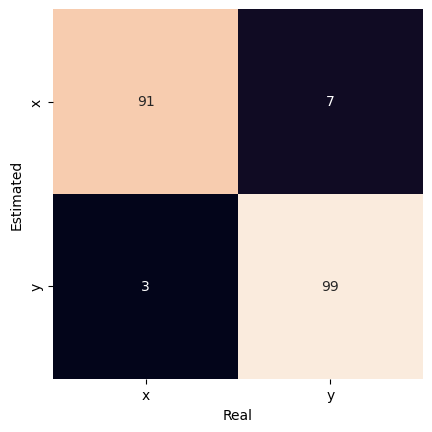
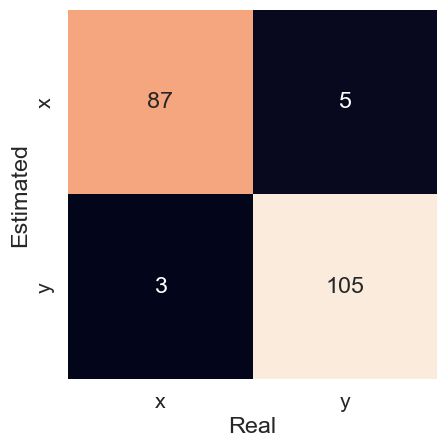
Adicionada página de explicação da classe base e suporte a fórmulas LaTeX.

diff --git a/docusaurus.config.js b/docusaurus.config.js
@@ -3,6 +3,8 @@
 
 const lightCodeTheme = require('prism-react-renderer/themes/github');
 const darkCodeTheme = require('prism-react-renderer/themes/dracula');
+const math = require('remark-math');
+const katex = require('rehype-katex');
 
 /** @type {import('@docusaurus/types').Config} */
 const config = {
@@ -49,12 +51,24 @@ const config = {
       ({
         docs: {
           sidebarPath: require.resolve('./sidebars.js'),
+          remarkPlugins: [math],
+          rehypePlugins: [katex],
         },
         theme: {
           customCss: require.resolve('./src/css/custom.css'),
           },
+          
       }),
     ],
+  ],
+  stylesheets: [
+    {
+      href: 'https://cdn.jsdelivr.net/npm/katex@0.13.24/dist/katex.min.css',
+      type: 'text/css',
+      integrity:
+        'sha384-odtC+0UGzzFL/6PNoE8rX/SPcQDXBJ+uRepguP4QkPCm2LBxH3FA3y+fKSiJ+AmM',
+      crossorigin: 'anonymous',
+    },
   ],
   
   themeConfig:
@@ -67,6 +81,7 @@ const config = {
         collapsible: true,
       },
       docs: {
+
         sidebar: {
           hideable: true,
         },

diff --git a/docs/Getting Started/basic use/BNSA.md b/docs/Getting Started/basic use/BNSA.md
@@ -23,12 +23,12 @@ from aisp.NSA import BNSA
 ## Randomly generating binary samples and splitting the data.
 ### Function to generate binary samples
 
-In this function, samples of binary data with a degree of similarity above a defined threshold s are generated. However, the first 10% of the data is generated randomly, without taking into account the value of s. Furthermore, when there are already samples, unique samples are generated for the new class, ensuring that the random samples generated are not duplicated in different classes.
+In this function, samples of binary data with a degree of similarity below a defined threshold s are generated. However, the first 10% of the data is generated randomly, without taking into account the value of s. Furthermore, when there are already samples, unique samples are generated for the new class, ensuring that the random samples generated are not duplicated in different classes.
 
 ```python
 import numpy as np
 from scipy.spatial.distance import cdist
-# This function generates samples with similarities above a similarity threshold.
+
 def generate_samples(n_samples: int, n_features: int, s: float, x: None):
    class_samples = []
    while len(class_samples) < n_samples:
@@ -37,9 +37,9 @@ def generate_samples(n_samples: int, n_features: int, s: float, x: None):
      if(len(class_samples) > max(int(n_samples * 0.1), 1)):
        similarity = cdist(class_samples, np.expand_dims(sample_rand, axis=0), metric='hamming')[0, :]
        if x is not None:
-         if similarity[0] > s and not np.any(np.all(sample_rand == x, axis=1)):
+         if similarity[0] <= s and not np.any(np.all(sample_rand == x, axis=1)):
            class_samples.append(sample_rand)
-       elif similarity[0] > s:
+       elif similarity[0] <= s:
          class_samples.append(sample_rand)
      else:
        class_samples.append(sample_rand)
@@ -48,16 +48,16 @@ def generate_samples(n_samples: int, n_features: int, s: float, x: None):
 
 ### Data generation and separation
 
-In this step, 1000 pieces of data are generated, 500 representing class 'x' and 500 representing class 'y'. Each die is made up of 20 dimensions. It is important to highlight that these data are created in such a way that they present a degree of similarity of 70%, that is, they share common characteristics. After generation, the data is separated into training and test sets.
+In this step, 1000 pieces of data are generated, 500 representing class 'x' and 500 representing class 'y'. Each die is made up of 20 dimensions. It is important to highlight that these data are created in such a way that they present a degree of similarity of 80%, that is, they share common characteristics. After generation, the data is separated into training and test sets.
 
 ```python
 from sklearn.model_selection import train_test_split
 # Setting the seed to 121 to ensure the reproducibility of the generated data.
 np.random.seed(121)
 # Generating samples for class "x".
-x = generate_samples(500, 20, 0.7, None)
+x = generate_samples(500, 20, 0.2, None)
 # Generating unique samples for class "y", different from samples present in class "x".
-y = generate_samples(500, 20, 0.7, x)
+y = generate_samples(500, 20, 0.2, x)
 # Adding columns containing the outputs (labels) of classes "x" and "y".
 x = np.hstack((x, np.full((x.shape[0], 1), 'x')))
 y = np.hstack((y, np.full((y.shape[0], 1), 'y')))
@@ -78,7 +78,7 @@ Starting the model and applying it to randomly generated samples, the current co
 ```python
 from sklearn.metrics import confusion_matrix, classification_report, accuracy_score
 # Starting the model.
-nsa = BNSA(N=250, aff_thresh=0.3, seed=12321, max_discards=10000)
+nsa = BNSA(N=250, aff_thresh=0.34, seed=1234321, max_discards=10000)
 # Conducting the training:
 nsa.fit(X=train_x, y=train_y)
 # Visualization of classes with test samples.
@@ -91,20 +91,20 @@ print(classification_report(test_y, prev_y))
 Output:
 ```
 ✔ Non-self detectors for classes (x, y) successfully generated:  ┇██████████┇ 500/500 detectors
-The accuracy is 0.95
+The accuracy is 0.96
               precision    recall  f1-score   support
 
-           x       0.93      0.97      0.95        94
-           y       0.97      0.93      0.95       106
+           x       0.95      0.97      0.96        90
+           y       0.97      0.95      0.96       110
 
-    accuracy                           0.95       200
-   macro avg       0.95      0.95      0.95       200
-weighted avg       0.95      0.95      0.95       200
+    accuracy                           0.96       200
+   macro avg       0.96      0.96      0.96       200
+weighted avg       0.96      0.96      0.96       200
 ```
 
 ##  Confusion matrix
 
-Here is the confusion matrix, where the main diagonal represents correctly predicted samples and the secondary diagonal shows the false positives. Out of 200 test data points, there were 7 false positives for class x and 3 false positives for class y.
+Here is the confusion matrix, where the main diagonal represents correctly predicted samples and the secondary diagonal shows the false positives. Out of 200 test data points, there were 5 false positives for class x and 3 false positives for class y.
 
 ```python
 # Generating the confusion matrix and plotting it graphically.

diff --git a/i18n/pt-br/docusaurus-plugin-content-docs/current/Getting Started/basic use/BNSA.md b/i18n/pt-br/docusaurus-plugin-content-docs/current/Getting Started/basic use/BNSA.md
@@ -25,7 +25,7 @@ from aisp.NSA import BNSA
 
 ### Função para gerar amostras binárias
 
-Nesta função, são geradas amostras de dados binários com um grau de similaridade acima de um limiar definido s. No entanto, 10% dos primeiros dados são gerados aleatoriamente, sem levar em consideração o valor de s. Além disso, quando já existem amostras, são geradas amostras únicas para a nova classe, garantindo que as amostras aleatórias geradas não estejam duplicadas em classes diferentes.
+Nesta função, são geradas amostras de dados binários com um grau de similaridade abaixo do limiar definido s. No entanto, 10% dos primeiros dados são gerados aleatoriamente, sem levar em consideração o valor de s. Além disso, quando já existem amostras, são geradas amostras únicas para a nova classe, garantindo que as amostras aleatórias geradas não estejam duplicadas em classes diferentes.
 
 ```python
 import numpy as np
@@ -39,9 +39,9 @@ def generate_samples(n_samples: int, n_features: int, s: float, x: None):
     if(len(classe_samples) > max(int(n_samples * 0.1), 1)):
       similarity = cdist(classe_samples, np.expand_dims(sample_rand, axis=0), metric='hamming')[0, :]
       if x is not None:
-        if similarity[0] > s and not np.any(np.all(sample_rand == x, axis=1)):
+        if similarity[0] <= s and not np.any(np.all(sample_rand == x, axis=1)):
           classe_samples.append(sample_rand)
-      elif similarity[0] > s:
+      elif similarity[0] <= s:
         classe_samples.append(sample_rand)
     else:
       classe_samples.append(sample_rand)
@@ -50,16 +50,15 @@ def generate_samples(n_samples: int, n_features: int, s: float, x: None):
 
 ### Geração e separação de dados
 
-Nessa etapa, são gerados 1000 dados, sendo 500 para representar a classe 'x' e 500 para representar a classe 'y'. Cada dado é formado por 20 dimensões. É importante destacar que esses dados são criados de forma que apresentem um grau de similaridade de 70%, ou seja, compartilham características comuns. Após a geração, os dados são separados em conjuntos de treinamento e teste.
+Nessa etapa, são gerados 1000 dados, sendo 500 para representar a classe 'x' e 500 para representar a classe 'y'. Cada dado é formado por 20 dimensões. É importante destacar que esses dados são criados de forma que apresentem um grau de similaridade de 80%, ou seja, compartilham características comuns. Após a geração, os dados são separados em conjuntos de treinamento e teste.
 
 ```python
-
 # Configurando a seed para 121 para garantir a reprodutibilidade dos dados gerados.
 np.random.seed(121)
 # Gerando amostras para a classe "x".
-x = generate_samples(500, 20, 0.7, None)
+x = generate_samples(500, 20, 0.2, None)
 # Gerando amostras exclusivas para a classe "y", diferentes das amostras presentes na classe "x".
-y = generate_samples(500, 20, 0.7, x)
+y = generate_samples(500, 20, 0.2, x)
 # Adicionando colunas contendo as saídas (rótulos) das classes "x" e "y".
 x = np.hstack((x, np.full((x.shape[0], 1), 'x')))
 y = np.hstack((y, np.full((y.shape[0], 1), 'y')))
@@ -80,31 +79,31 @@ Iniciando o modelo e aplicando-o às amostras geradas aleatoriamente, a configur
 
 ```python
 # Iniciando p modelo.
-nsa = BNSA(N=250, aff_thresh=0.3, seed=12321, max_discards=10000)
+nsa = BNSA(N=250, aff_thresh=0.34, seed=1234321, max_discards=10000)
 # Efetuando o treinamento: 
 nsa.fit(X=train_x, y=train_y)
 # Efetuando a previsão:: 
 prev = nsa.predict(X=test_x)
 # Mostrando a acurácia das previsões para os dados reais.
-print(f"A acuracia é {accuracy_score(prev, test_y)}")
+print(f"A acurácia é {accuracy_score(prev, test_y)}")
 print(classification_report(test_y, prev))
 ```
 
 Output:
 ```
 ✔ Non-self detectors for classes (x, y) successfully generated:  ┇██████████┇ 500/500 detectors
-A acuracia é 0.95
+A acurácia é 0.96
               precision    recall  f1-score   support
 
-           x       0.93      0.97      0.95        94
-           y       0.97      0.93      0.95       106
+           x       0.95      0.97      0.96        90
+           y       0.97      0.95      0.96       110
 
-    accuracy                           0.95       200
-   macro avg       0.95      0.95      0.95       200
-weighted avg       0.95      0.95      0.95       200
+    accuracy                           0.96       200
+   macro avg       0.96      0.96      0.96       200
+weighted avg       0.96      0.96      0.96       200
 ```
 
 ## Matriz de confusão
-Aqui está a matriz de confusão, onde a diagonal principal representa as amostras previstas corretamente e a diagonal secundária mostra os falsos positivos. Dos 200 dados de teste, houve 7 falsos positivos para a classe x e 3 falsos positivos para a classe y.
+Aqui está a matriz de confusão, onde a diagonal principal representa as amostras previstas corretamente e a diagonal secundária mostra os falsos positivos. Dos 200 dados de teste, houve 5 falsos positivos para a classe x e 6 falsos positivos para a classe y.
 
 ![](../../assets/matrizBNSA.png)

diff --git a/i18n/pt-br/docusaurus-plugin-content-docs/current/advanced-guides/base.md b/i18n/pt-br/docusaurus-plugin-content-docs/current/advanced-guides/base.md
@@ -1,0 +1,64 @@
+---
+sidebar_position: 1
+title: aisp._base Class
+sidebar_label: Classe - Base.
+lastUpdatedAt: 2023/06/04
+author: João Paulo
+---
+
+# Classe aisp._base
+
+A classe ``_Base`` contém funções utilitárias com o modificador ``protected`` que podem ser herdadas por várias classes para facilitar o uso. Ela inclui funções para calcular distância, separar dados para melhorar a eficiência de treinamento e previsão, medir precisão e outras funções.
+
+## Funções Protegidas:
+
+### def _distance(...):
+
+```python
+def _distance(self, u: npt.NDArray, v: npt.NDArray)
+```
+
+Função para calcular a distância entre dois pontos usando a "métrica" escolhida.
+
+**Parâmetros**:
+* ***u*** (``npt.NDArray``): Coordenadas do primeiro ponto.
+* ***v*** (``npt.NDArray``): Coordenadas do segundo ponto.
+
+**Retorna**:
+* Distância (``double``) entre os dois pontos.
+
+### def _slice_index_list_by_class(...)
+
+```python
+def _slice_index_list_by_class(self, y: npt.NDArray) -> dict
+```
+
+A função ``_slice_index_list_by_class(...)`` separa os índices das linhas de acordo com a classe de saída, para iterar sobre o array de amostra apenas nas posições em que a saída é a classe em treinamento.
+
+**Parâmetros**:
+* ***y*** (npt.NDArray): Recebe um array ``y``[``N amostra``] com as classes de saída do array de amostra ``X``.
+
+**Retorna**:
+* dict: Um dicionário com a lista de posições do array (`y`), com as classes como chave.
+
+### def _score(...)
+
+```python
+def _score(self, X: npt.NDArray, y: list) -> float
+```
+
+A função de pontuação (score) calcula a precisão da previsão.
+
+Esta função realiza a previsão de X e verifica quantos elementos são iguais entre o vetor y e y_predicted. 
+Esta função foi adicionada para compatibilidade com algumas funções do scikit-learn.
+
+**Parâmetros**:
++ ***X***: np.ndarray
+    Conjunto de características com formato (n_amostras, n_características).
++ ***y***: np.ndarray
+    Valores verdadeiros com formato (n_amostras,).
+
+**Retorna**:
+
++ precisão: float
+    A precisão do modelo.

diff --git a/docs/advanced-guides/base.md b/docs/advanced-guides/base.md
@@ -1,0 +1,64 @@
+---
+sidebar_position: 1
+title: aisp._base Class
+sidebar_label: Class - Base.
+lastUpdatedAt: 2023/06/04
+author: João Paulo
+---
+
+# aisp._base Class
+
+The ``_Base`` class contains utility functions with the ``protected`` modifier that can be inherited by various classes for ease of use. It includes functions for distance calculation, data separation to improve training and prediction efficiency, accuracy measurement and other functions.
+
+## Protected Functions:
+
+### def _distance(...):
+
+```python
+def _distance(self, u: npt.NDArray, v: npt.NDArray)
+```
+
+Function to calculate the distance between two points by the chosen ``metric``.
+
+**Parameters**:
+* ***u*** (``npt.NDArray``): Coordinates of the first point.
+* ***v*** (``npt.NDArray``): Coordinates of the second point.
+
+**returns**:
+* Distance (``double``) between the two points.
+
+### def _slice_index_list_by_class(...)
+
+```python
+def _slice_index_list_by_class(self, y: npt.NDArray) -> dict
+```
+
+The function ``__slice_index_list_by_class(...)``, separates the indices of the lines according to the output class, to loop through the sample array, only in positions where the output is the class being trained.
+
+**Parameters**:
+* ***y*** (npt.NDArray): Receives a ``y``[``N sample``] array with the output classes of the ``X`` sample array.
+
+**returns**:
+* dict: A dictionary with the list of array positions(``y``), with the classes as key.
+
+
+### def _score(...)
+
+```python
+def _score(self, X: npt.NDArray, y: list) -> float
+```
+Score function calculates forecast accuracy.
+
+This function performs the prediction of X and checks how many elements are equal between vector y and y_predicted. 
+This function was added for compatibility with some scikit-learn functions.
+
+**Parameters**:
++ ***X***: np.ndarray
+    Feature set with shape (n_samples, n_features).
++ ***y***: np.ndarray
+    True values with shape (n_samples,).
+
+**Returns**:
+
++ accuracy: float
+    The accuracy of the model.

diff --git a/docs/aisp-techniques/Negative Selection/RNSA.md b/docs/aisp-techniques/Negative Selection/RNSA.md
@@ -44,10 +44,10 @@ it is important to consider that setting a very low radius for the detector can 
 * *k* (``int``): Number of neighbors near the randomly generated detectors to perform the distance average calculation. Defaults to ``1``.
 * *metric* (``str``): Way to calculate the distance between the detector and the sample:
 
-    * ``'Euclidean'`` ➜ The calculation of the distance is given by the expression: √( (X₁ – X₂)² + (Y₁ – Y₂)² + ... + (Yn – Yn)²).
+    * ``'Euclidean'`` ➜ The calculation of the distance is given by the expression: $$\sqrt{(X₁ – X₂)² + (Y₁ – Y₂)² + ... + (Yn – Yn)²}$$.
 
-    * ``'minkowski'`` ➜ The calculation of the distance is given by the expression: ( |X₁ – Y₁|p + |X₂ – Y₂|p + ... |Xn – Yn|p) ¹/ₚ , In this project ``p == 2``.
-    * ``'manhattan'`` ➜ The calculation of the distance is given by the expression: ( |X₁ – X₂| + |Y₁ – Y₂| + ...+ |Yn – Yn₂|) .
+    * ``'minkowski'`` ➜ The calculation of the distance is given by the expression: $$( |X₁ – Y₁|p + |X₂ – Y₂|p + ... |Xn – Yn|p) ¹/ₚ$$ , In this project ``p == 2``.
+    * ``'manhattan'`` ➜ The calculation of the distance is given by the expression: $$( |X₁ – X₂| + |Y₁ – Y₂| + ...+ |Yn – Yn₂|)$$ .
 
     Defaults to ``'euclidean'``.
 

diff --git a/i18n/pt-br/docusaurus-plugin-content-docs/current/aisp-techniques/Negative Selection/RNSA.md b/i18n/pt-br/docusaurus-plugin-content-docs/current/aisp-techniques/Negative Selection/RNSA.md
@@ -45,9 +45,9 @@ class RNSA(
 * *k* (``int``): Quantidade de vizinhos próximos dos detectores gerados aleatoriamente para efetuar o cálculo da média da distância. Defaults to ``1``.
 * *metric* (``str``): Forma para se calcular a distância entre o detector e a amostra: 
     
-    * ``'euclidiana'`` ➜ O cálculo da distância dá-se pela expressão:  √( (X₁ – X₂)² + (Y₁ – Y₂)² + ... + (Yn – Yn)²).
-    * ``'minkowski'``  ➜ O cálculo da distância dá-se pela expressão: ( |X₁ – Y₁|p + |X₂ – Y₂|p + ... + |Xn – Yn|p) ¹/ₚ , Neste projeto ``p == 2``.
-    * ``'manhattan'``  ➜ O cálculo da distância dá-se pela expressão:  ( |X₁ – X₂| + |Y₁ – Y₂| + ... + |Yn – Yn₂|).
+    * ``'euclidiana'`` ➜ O cálculo da distância dá-se pela expressão:  $$\sqrt{(X₁ – X₂)² + (Y₁ – Y₂)² + ... + (Yn – Yn)²}$$.
+    * ``'minkowski'``  ➜ O cálculo da distância dá-se pela expressão: $$( |X₁ – Y₁|p + |X₂ – Y₂|p + ... + |Xn – Yn|p) ¹/ₚ$$ , Neste projeto ``p == 2``.
+    * ``'manhattan'``  ➜ O cálculo da distância dá-se pela expressão:  ( $$|X₁ – X₂| + |Y₁ – Y₂| + ... + |Yn – Yn₂|$$).
 
     Defaults to ``'euclidean'``.
 
